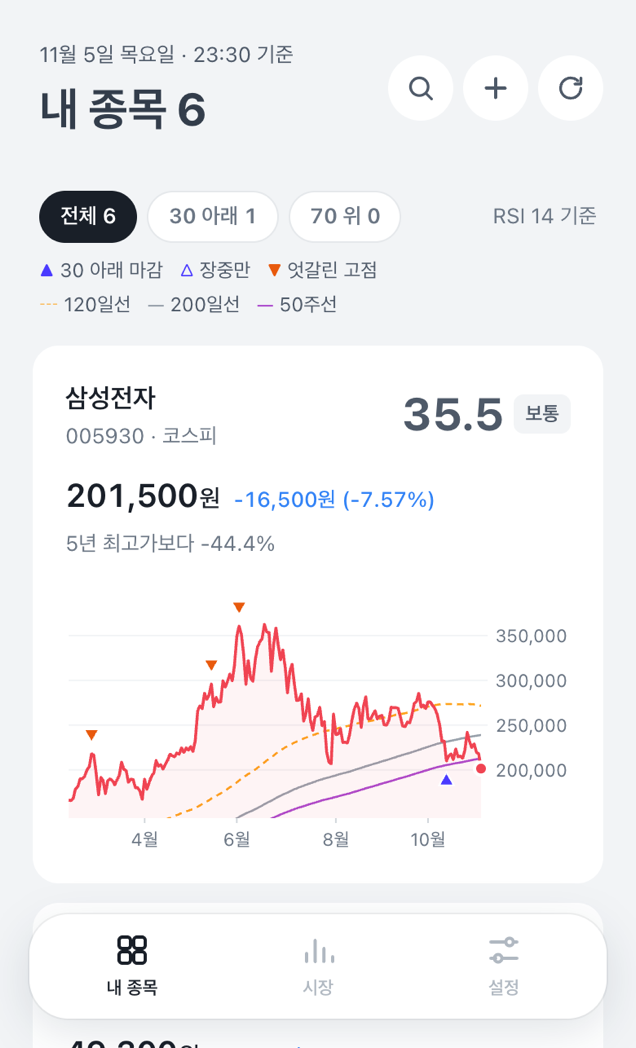
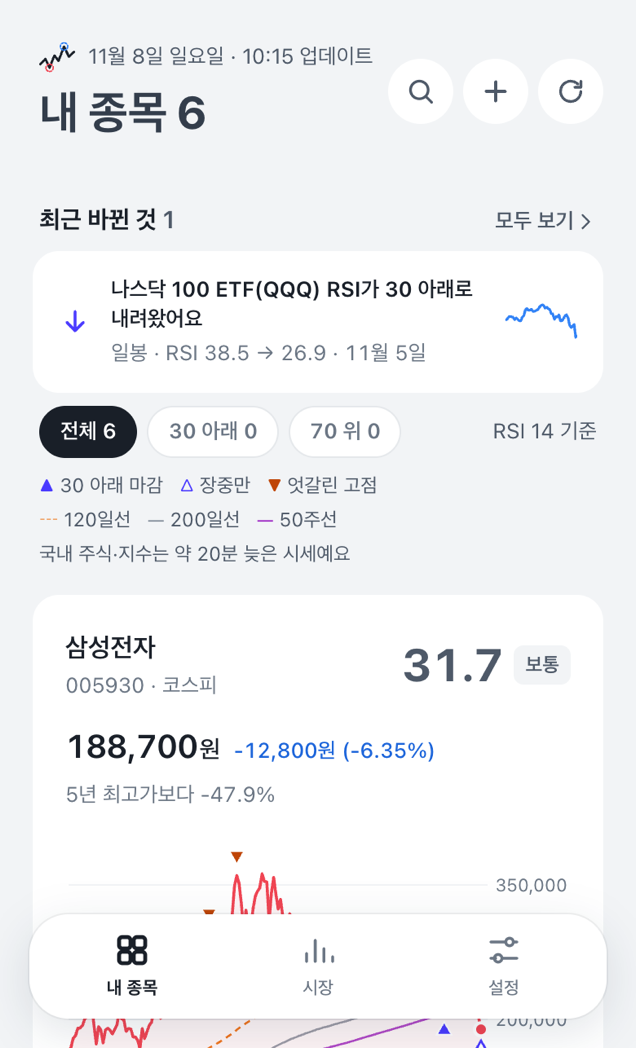
콘솔 앱 등록 폼 임시저장 기록 + 스크린샷 4장을 9판 화면으로 교체
- app-info.md: 2026-11-08 폼에 넣은 값(출시 노트 · Palsal · 부제 · 상세 설명 · 이메일 · 카테고리 금융>투자>종목·시장 정보 · 키워드 10 · 주요 기능 3 · 스크린샷 4), 검토 요청·확약은 안 함
- screenshots/: 636×1048 세로 4장을 현재 빌드(로고 · 대비 수정 뒤)로 다시 찍음(개발 패널·모의 광고 숨김)

diff --git a/console/app-info.md b/console/app-info.md
@@ -13,12 +13,29 @@
 | 앱 이름(국문) | 팔껄살껄 |
 | 앱 이름(영문) | Palsal (단어마다 첫 글자만 대문자 규칙이라 'PalSal' 은 불가, 사용자 선택) |
 | 부제(20자 이내) | RSI로 보는 내 종목 |
-| 카테고리 | 생활 > 재테크 (categoryIds [3884] · subCategoryIds [94]) |
+| 카테고리 | (처음 계획) 생활 > 재테크 (categoryIds [3884] · subCategoryIds [94]) → **2026-11-08 콘솔 웹 폼에는 그 이름이 없어 '금융 > 투자 > 종목·시장 정보'로 넣음**(1단계 목록: 건강·공공·행정·날씨·교육·학습·금융·…·일상·생활·일·비즈니스·커머스·쇼핑·기타, '일상·생활' 아래엔 재테크 없음) |
 | 검색 키워드(10) | RSI · RSI 알림 · 주식 RSI · 코인 RSI · 보조지표 · 이동평균 · 공포탐욕지수 · 관심종목 · 주식 차트 · 시가총액 |
 | 로고 | `console/logo.png` (600×600 PNG, T5 후회 지점) |
 
 상세 설명(500자 이내):
 > 담아 둔 국내·미국 주식과 코인, 환율의 RSI(14)와 이동평균을 차트 카드로 이어서 보여 줘요. 내 종목 화면 맨 위에는 RSI가 30 아래로 내려오거나 70을 넘은 종목, 60일선과 120일선이 교차한 종목, 5년 최고가를 새로 쓴 종목이 먼저 보여요. 카드를 누르면 가격 차트와 RSI 흐름, 가격과 RSI가 엇갈린 지점을 자세히 볼 수 있어요. 시장 탭에서는 한국·미국 시가총액 상위 종목의 RSI 순위와 공포탐욕지수를 보고 바로 담을 수 있어요. 알림을 켜면 매일 오전 10시에 내 종목 RSI 정리를 알려 드려요. 지난 가격으로 계산한 보조 지표를 보여 줄 뿐 투자를 권하지 않아요.
+
+## 2026-11-08 콘솔 폼에 임시저장한 값 (사용자 "빈칸 사람이 쓴 것처럼 깔끔하게 써" → Claude 가 Chrome 으로 입력, 검토 요청은 안 누름)
+'앱 출시 → 9판(20261108-9) 줄 검토 요청하기 → 앱 등록하기' 폼. 1단계·2단계 모두 '임시저장 했어요' 토스트 확인. **검토 요청하기 · 확약 체크 5개는 손대지 않음**(11단계에 사용자가).
+
+| 칸 | 넣은 값 |
+|----|---------|
+| 출시 노트(번들 9판, 한 줄 입력칸) | 담아 둔 주식·코인의 RSI(14)와 이동평균을 지켜보는 앱이에요. 처음 열면 예시 종목 4개(나스닥 100 ETF, S&P 500 ETF, 삼성전자, SK하이닉스)가 담겨 있어 바로 볼 수 있어요. [내 종목] 카드마다 현재가·RSI·가격 차트가 나오고, RSI가 30 아래로 내려가거나 70을 넘은 종목은 맨 위 '최근 바뀐 것'에 모여요. 오른쪽 위 +로 종목을 담고(초성 검색), 카드를 길게 누르면 순서를 바꾸거나 뺄 수 있어요. [종목 자세히] 카드를 누르면 가격·RSI 차트를 손가락으로 밀고 벌려 볼 수 있고, 일봉·주봉·월봉을 바꿀 수 있어요. [시장] 한국·미국·코인 공포탐욕지수, 지금 RSI 30 아래인 시가총액 상위 종목, 시가총액 순위. [설정] 매일 오전 10시 RSI 알림(출시 뒤 알림 템플릿을 등록하면 켜지고 그 전엔 '준비 중'), 자동 새로고침, 도움말과 약관. 시세는 자체 서버가 5분마다 받아 둔 값을 읽기만 해요. 광고는 내 종목·시장 탭의 배너 2개뿐이고 전면·리워드 광고와 결제는 없어요. 매수·매도를 권하는 문구는 없고, 화면마다 아래에 면책 문구가 있어요. |
+| 영어 앱 이름 | Palsal |
+| 부제 | 내 종목 RSI를 한눈에 (13/20) |
+| 상세 설명 | 주식이나 코인을 볼 때 지금이 많이 빠진 자리인지, 과열인지 궁금할 때가 있죠. 팔껄살껄은 담아 둔 종목의 RSI(14)와 이동평균을 차트 카드로 보여 주는 앱이에요. / 내 종목 탭에는 국내·미국 주식과 코인, 환율을 담을 수 있어요. 카드마다 현재가와 RSI, 가격 차트가 함께 나오고, RSI가 30 아래로 내려가거나 70을 넘은 종목, 60일선과 120일선이 교차한 종목은 맨 위 '최근 바뀐 것'에 먼저 보여요. 카드를 누르면 차트를 손가락으로 밀고 벌려 가며 자세히 볼 수 있어요. / 시장 탭에서는 한국·미국 시가총액 상위 종목 가운데 지금 RSI가 30 아래인 종목과 공포탐욕지수를 보고 바로 담을 수 있어요. 알림을 켜면 매일 오전 10시에 내 종목 RSI 정리를 알려 드려요. / 지난 가격으로 계산한 보조 지표를 보여 줄 뿐, 사고파는 것을 권하지 않아요. |
+| 고객문의 이메일 | jmsmg1@me.com (약관·처리방침에 적힌 주소) |
+| 카테고리 | 금융 > 투자 > 종목·시장 정보 |
+| 앱 로고 | console/logo.png → 콘솔이 static.toss.im 주소로 바꿔 넣음(미리보기에 우리 로고) |
+| 스크린샷 | 세로 4장(636×1048) — **2026-11-08 9판 화면으로 새로 찍음**(`console/screenshots/palsal-1-home…4-add.png`, 개발 패널·모의 광고 숨김). 폼 안내 '세로형 최소 3장 / 가로형(1504×741) 최소 1장' — 가로는 안 올림 |
+| 앱 검색 키워드 10 | RSI · RSI 알림 · 주식 RSI · 코인 RSI · 보조지표 · 이동평균 · 공포탐욕지수 · 관심종목 · 주식 차트 · 시가총액 |
+| 주요 기능 3 | 주식 RSI 보기 / My Stock Chart / 홈 화면 · 공포탐욕지수 보기 / Fear And Greed / intoss://palsal/market · RSI 알림 받기 / Daily Alert / intoss://palsal/settings |
+| 안 채운 것 | 다크모드 로고(선택) · 가로 썸네일(선택) · 확약 5개 체크 · 검토 요청 |
 
 ## 9단계 (2026-11-05 Claude 초안)
 - **이용약관** `https://toss-in-app.github.io/palsal/terms/` · **개인정보처리방침** `https://toss-in-app.github.io/palsal/privacy/` — 둘 다 라이브(8단계 배포, 원문은 `static/terms/index.html` · `static/privacy/index.html`, 정리는 `console/policies/README.md`).
